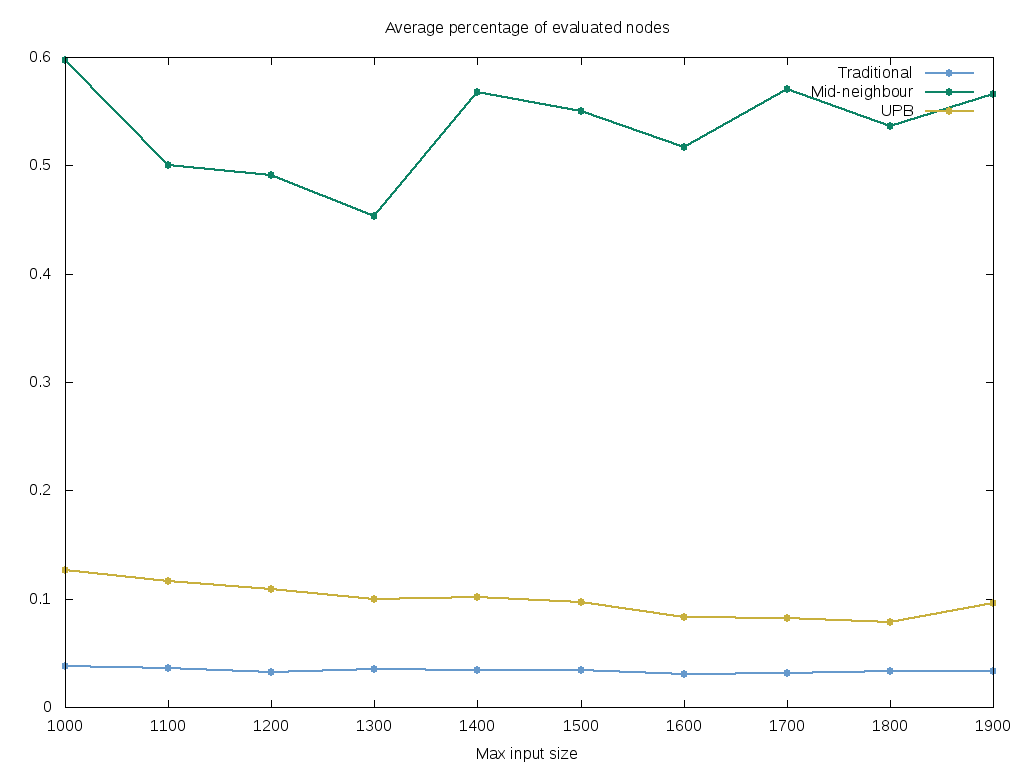
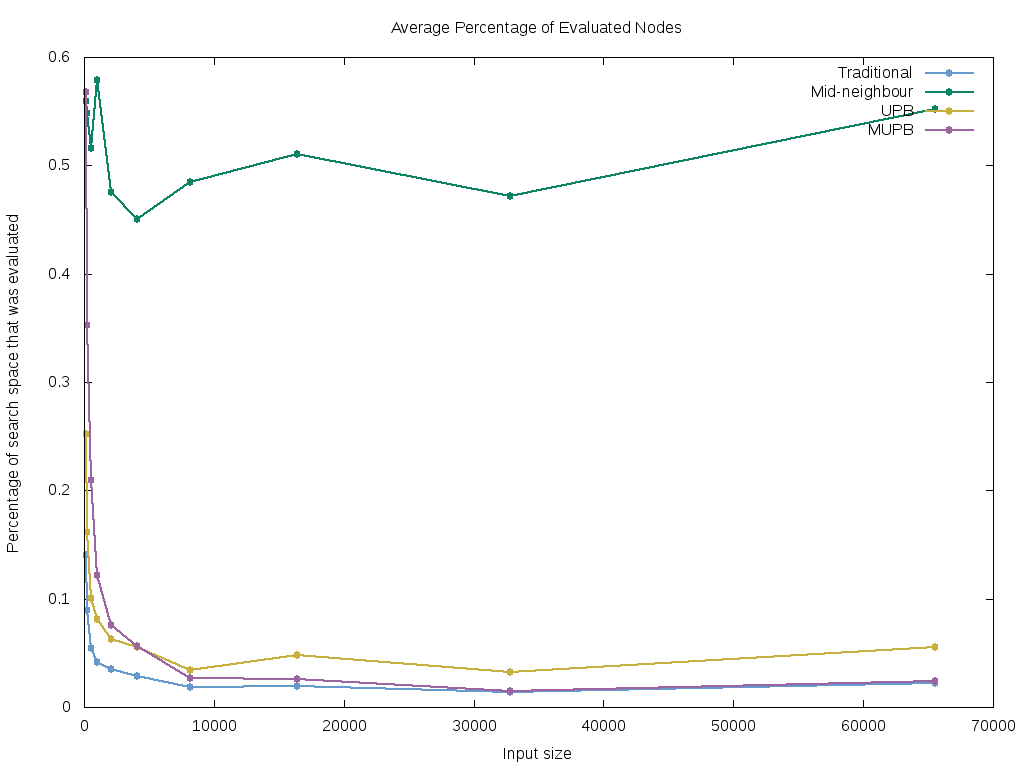
Updated the bisection test

diff --git a/bisection/test_bisection.py b/bisection/test_bisection.py
@@ -3,6 +3,7 @@ from gen_ucurve import gen_points
 from gen_ucurve import input_noise
 from bisection import bisection_min
 from bisection import mid_neighbour_bisection 
+from bisection import upb
 from bisection import mupb
 from time import time
 
@@ -10,19 +11,22 @@ max_input_size = 1000
 test_size = 100.0
 
 
-
+##  Time and evaluations
+##
+##
 time_file = open ('time_data.txt', 'w')
 evaluations_file = open ('evaluations_data.txt', 'w')
 for j in range (10):
     d_evaluations = 0
     m_evaluations = 0
     s_evaluations = 0
+    s2_evaluations = 0
     d_time = 0
     m_time = 0
     s_time = 0
+    s2_time = 0
 
     for i in range (int (test_size)):
-        #n = 1 + int (random () * max_input_size)
         n = max_input_size
         points = gen_points (n, random ())
         input_noise (points, 0)
@@ -31,51 +35,63 @@ for j in range (10):
         [result, evaluations] = bisection_min (points)
         d_evaluations += evaluations / (n * 1.0)
         e = time ()
-        d_time = d_time + e - s
+        d_time += e - s
 
         s = time ()
         [result, evaluations] = mid_neighbour_bisection (points)
         m_evaluations += evaluations / (n * 1.0)
         e = time ()
-        m_time = m_time + e - s
+        m_time += e - s
+
+        s = time ()
+        [result, evaluations] = upb (points, .85)
+        s_evaluations += evaluations / (n * 1.0)
+        e = time ()
+        s_time +=  e - s
 
         s = time ()
         [result, evaluations] = mupb (points, .85)
-        s_evaluations += evaluations / (n * 1.0)
+        s2_evaluations += evaluations / (n * 1.0)
         e = time ()
-        s_time = s_time + e - s
+        s2_time +=  e - s
 
     print ("Average percentage of evaluated nodes for traditional bisection: ", d_evaluations / test_size)
     print ("Average percentage of evaluated nodes for mid-neighbour bisection: ", m_evaluations / test_size)
-    print ("Average percentage of evaluated nodes for stochastic bisection: ", s_evaluations / test_size)
+    print ("Average percentage of evaluated nodes for UPB: ", s_evaluations / test_size)
+    print ("Average percentage of evaluated nodes for MUPB: ", s2_evaluations / test_size)
     print ("Time used for traditional bisection (seconds): ", d_time)
     print ("Time used for mid-neighbour bisection (seconds): ", m_time)
-    print ("Time used for probabilistic bisection (seconds): ", s_time)
+    print ("Time used for UPB (seconds): ", s_time)
+    print ("Time used for MUPB (seconds): ", s2_time)
 
-    evaluations_file.write (str (max_input_size) + " " + str (d_evaluations / test_size) + " " + str (m_evaluations / test_size) + " " + str (s_evaluations / test_size) + "\n")
-    time_file.write (str (max_input_size) + " " + str (d_time) + " " + str (m_time) +  " " + str (s_time) + " " +"\n")
+    evaluations_file.write (str (max_input_size) + " " + str (d_evaluations / test_size) + " " + str (m_evaluations / test_size) + " " + str (s_evaluations / test_size) + " " + str (s2_evaluations / test_size) + "\n")
+    time_file.write (str (max_input_size) + " " + str (d_time) + " " + str (m_time) +  " " + str (s_time) + " " + str (s2_time) + " " +"\n")
     
-    max_input_size += 100
+    max_input_size += 200
 
 evaluations_file.close ()
 time_file.close ()
 
+
+
+# Correctness
+#
+#
 max_input_size = 100
 test_size = 1000.0
 correctness_file = open ('correctness_data.txt', 'w')
-# input noise parameter
-sigma = 0
+sigma = 0 # input noise parameter
 for j in range (10):
     d_corrects = 0
     m_corrects = 0
     s_corrects = 0
+    s2_corrects = 0
     s_error = 0.0
+    s2_error = 0.0
     for i in range (int (test_size)):
-        #n = 1 + int (random () * max_input_size)
         n = max_input_size
         points = gen_points (n, .25)
         input_noise (points, sigma)
-        
         
         [result, evaluations] = bisection_min (points)
         if abs (min (points) - result) / abs (min (points)) < .05:
@@ -85,27 +101,34 @@ for j in range (10):
         if abs (min (points) - result) / abs (min (points)) < .05:
             m_corrects = m_corrects + 1
 
-        [result, evaluations] = mupb (points, .8)
+        [result, evaluations] = upb (points, .8)
         if abs (min (points) - result) / abs (min (points)) < .05:
             s_corrects = s_corrects + 1
         s_error = s_error + abs (min (points) - result) / abs (min (points))
 
+        [result, evaluations] = mupb (points, .8)
+        if abs (min (points) - result) / abs (min (points)) < .05:
+            s2_corrects = s2_corrects + 1
+        s2_error = s2_error + abs (min (points) - result) / abs (min (points))
+
     print ("Correctness for traditional bisection: ", d_corrects / test_size)
     print ("Correctness for mid-neighbour bisection: ", m_corrects / test_size)
-    print ("Correctness for probabilistic bisection: ", s_corrects / test_size)
-    print ("Average relative error of probabilistic bisection", s_error / test_size)
-    correctness_file.write (str (sigma) + " " + str (d_corrects / test_size) + " " + str (m_corrects / test_size) + " " + str (s_corrects / test_size) + "\n")
-    
+    print ("Correctness for UPB: ", s_corrects / test_size)
+    print ("Correctness for MPB: ", s2_corrects / test_size)
+    print ("Average relative error of UPB:", s_error / test_size)
+    print ("Average relative error of MPB:", s2_error / test_size)
+    correctness_file.write (str (sigma) + " " + str (d_corrects / test_size) + " " + str (m_corrects / test_size) + " " + str (s_corrects / test_size) + " " + str (s2_corrects / test_size) + "\n")
     sigma += 1
 
 correctness_file.close ()
 
 
-# test different values of pc
 
+# Test different values of pc
+#
+#
 pc_time_file = open ('pc_time_data.txt', 'w')
 pc_evaluations_file = open ('pc_evaluations_data.txt', 'w')
-
 max_input_size = 32
 for j in range (0):
     p7_evaluations = 0
@@ -148,6 +171,5 @@ for j in range (0):
     pc_evaluations_file.write (str (max_input_size) + " " + str (p7_evaluations / test_size) + " " + str (p8_evaluations / test_size) + " " + str (p9_evaluations / test_size) + "\n")
     pc_time_file.write (str (max_input_size) + " " + str (p7_time) + " " + str (p8_time) +  " " + str (p9_time) + " " +"\n")
     max_input_size *= 2
-
 pc_time_file.close ()
 pc_evaluations_file.close ()
